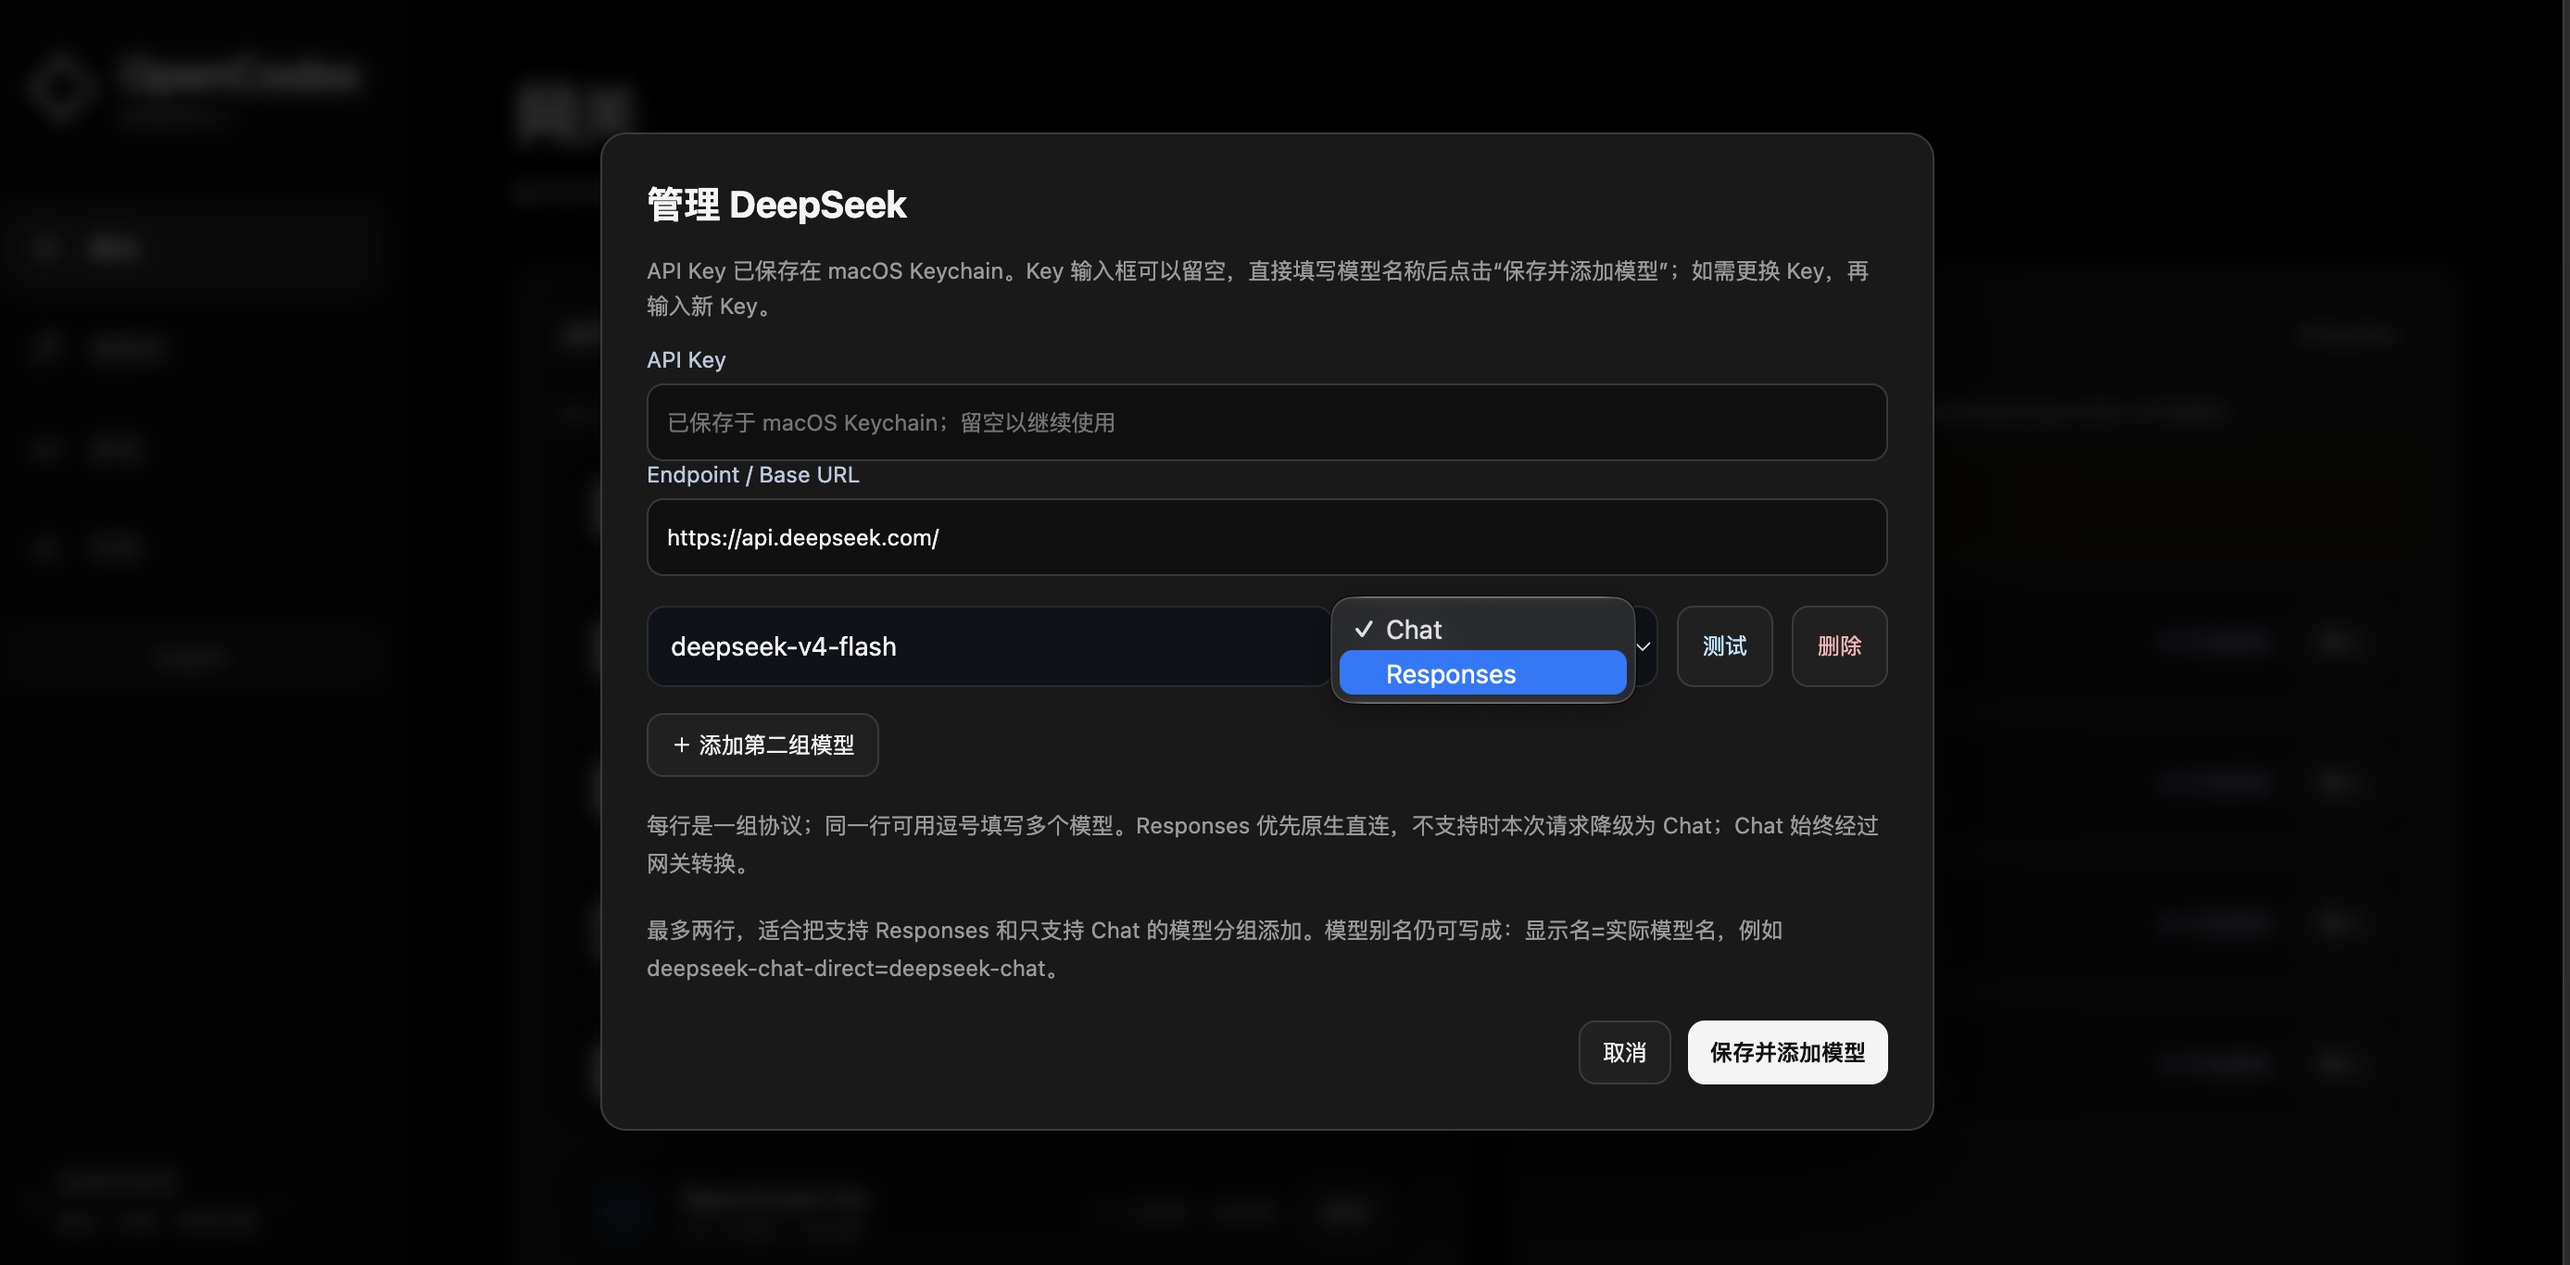
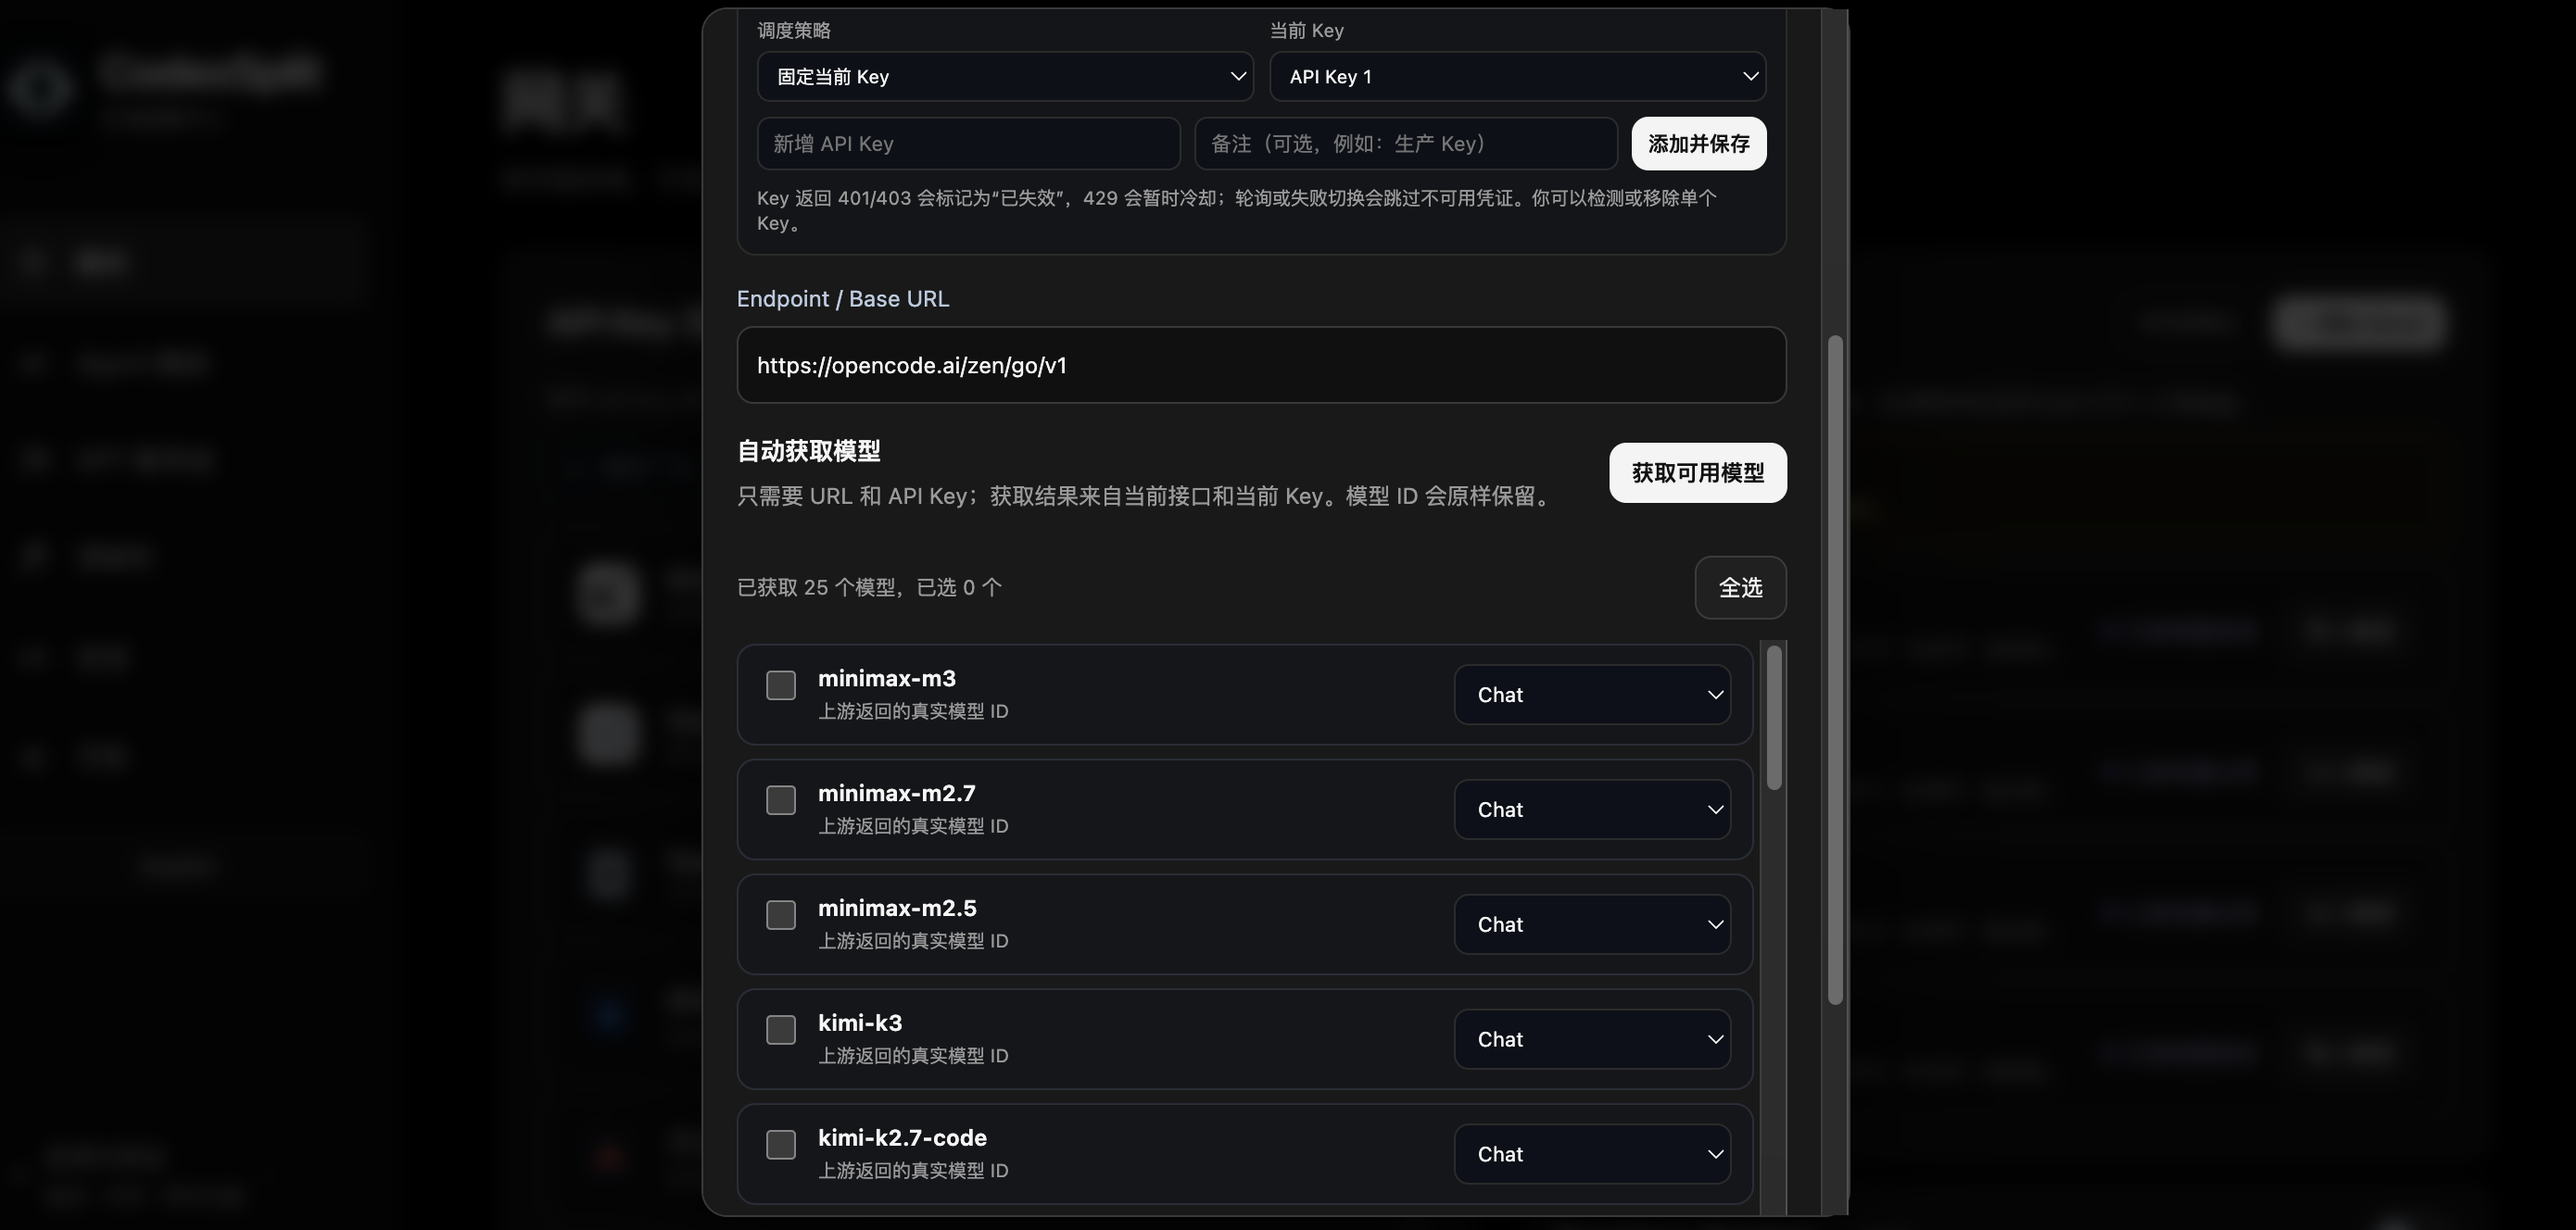
docs: refresh CodexSplit screenshots and rename note

diff --git a/README.md b/README.md
@@ -4,6 +4,8 @@
 
 CodexSplit 是运行在本机的 Codex Desktop 控制中心：把第三方模型、模型目录、语音助手、GPT-Live、会话管理和 Agent 工具集中到一个桌面应用中，同时保留 Codex 原生模型、原生登录、Computer Use 与 MCP 的独立运行方式。
 
+> **项目更名说明**：CodexSplit 是原 `OpenCodex` 项目的延续与正式更名版本。从 `v2.0.0-beta.1` 起，产品、源码发布和 GitHub 仓库统一使用 CodexSplit；仓库地址已更新为 [`AITabby/codexsplit`](https://github.com/AITabby/codexsplit)。历史提交、旧版 tag、部分内部目录与兼容标识仍可能出现 `OpenCodex`，这些属于历史或兼容信息，不是另一个项目。原仓库的提交历史和 Stars 也会保留在更名后的仓库中。
+
 <p align="center">
   <a href="https://github.com/AITabby/codexsplit/releases"><img src="https://img.shields.io/github/v/release/AITabby/codexsplit?display_name=tag&style=flat-square&label=release" alt="Latest Release"></a>
   <a href="https://github.com/AITabby/codexsplit"><img src="https://img.shields.io/github/stars/AITabby/codexsplit?style=flat-square" alt="GitHub Stars"></a>
@@ -32,34 +34,28 @@ CodexSplit 是运行在本机的 Codex Desktop 控制中心：把第三方模型
 
 ## 产品截图
 
-### 第三方模型配置与协议选择
+### 第三方模型配置与上游模型发现
 
 <p align="center">
-  <img src="./assets/screenshots/01-provider-model-config.png" alt="配置第三方模型并选择 Chat 或 Responses 协议" width="960">
+  <img src="./assets/screenshots/01-provider-model-config.png" alt="配置第三方模型并发现上游模型" width="960">
 </p>
 
-### 语音栏与 GPT-Live 执行模型选择
+### GPT 账号池与账号轮换
 
 <p align="center">
-  <img src="./assets/screenshots/02-voice-gpt-live.png" alt="语音栏设置与 GPT-Live 执行模型选择" width="960">
+  <img src="./assets/screenshots/02-gpt-account-pool.png" alt="GPT 账号池与账号轮换" width="960">
 </p>
 
-### 扫描并导入本机 Agent 会话
+### 网关与第三方模型管理
 
 <p align="center">
-  <img src="./assets/screenshots/03-agent-session-scan.png" alt="本机 Agent 会话扫描结果" width="960">
+  <img src="./assets/screenshots/03-gateway.png" alt="网关与第三方模型管理" width="960">
 </p>
 
-### 按服务商管理待应用模型
+### CodexSplit 语音栏
 
 <p align="center">
-  <img src="./assets/screenshots/04-model-catalog.png" alt="第三方模型目录与服务商命名空间" width="960">
-</p>
-
-### Agent 路由与模型能力目录
-
-<p align="center">
-  <img src="./assets/screenshots/05-agent-routing.png" alt="Agent 路由与模型能力目录" width="960">
+  <img src="./assets/screenshots/04-voice-bar.png" alt="CodexSplit 语音栏" width="960">
 </p>
 
 > 当前 Beta：macOS Apple Silicon `v2.0.0-beta.1`（`spawn_agent` 子会话先进入 8765 网关，再由网关按模型/Profile 分流）；Windows 先提供同一版本源码，安装包后续发布。Linux 版本尚未发布。
@@ -374,21 +370,21 @@ CodexSplit 正在持续迭代。当前状态：
 
 CodexSplit is a local control center for Codex Desktop. It brings third-party models, provider management, dynamic model metadata, voice, GPT-Live, session import, Agent routing, Computer Use compatibility, and Agent tools into one desktop workflow while keeping native Codex routing separate.
 
+> **Project rename**: CodexSplit is the continuation and official rename of the original `OpenCodex` project. Starting with `v2.0.0-beta.1`, the product, source releases, and GitHub repository use the CodexSplit name; the repository is now [`AITabby/codexsplit`](https://github.com/AITabby/codexsplit). Historical commits, older tags, internal paths, and compatibility identifiers may still contain `OpenCodex`; those are historical or compatibility references, not a separate project. The original commit history and GitHub stars remain with the renamed repository.
+
 Native Codex models, native login, native Computer Use, MCP, and native Live / Realtime remain on their original paths by default. Only models explicitly added or imported by the user are routed through the CodexSplit gateway. The Desktop bridge is a process-level switch activated only by an explicit restart after third-party models are enabled; it is not exported through launchd and does not silently replace unrelated native launches. The v2.0.0-beta.1 source build sends gateway-owned `spawn_agent` child turns to `127.0.0.1:8765`, where the selected model/Profile is routed.
 
 ### Screenshots
 
 ![CodexSplit control center](./assets/dashboard-home.png)
 
-![Provider and model configuration](./assets/screenshots/01-provider-model-config.png)
+![Provider and upstream model discovery](./assets/screenshots/01-provider-model-config.png)
 
-![Voice and GPT-Live](./assets/screenshots/02-voice-gpt-live.png)
+![GPT account pool and account rotation](./assets/screenshots/02-gpt-account-pool.png)
 
-![Agent session scanning](./assets/screenshots/03-agent-session-scan.png)
+![Gateway and third-party model management](./assets/screenshots/03-gateway.png)
 
-![Enabled model catalog](./assets/screenshots/04-model-catalog.png)
-
-![Agent routing and model capability directory](./assets/screenshots/05-agent-routing.png)
+![CodexSplit Voice Bar](./assets/screenshots/04-voice-bar.png)
 
 ### Current releases
 
